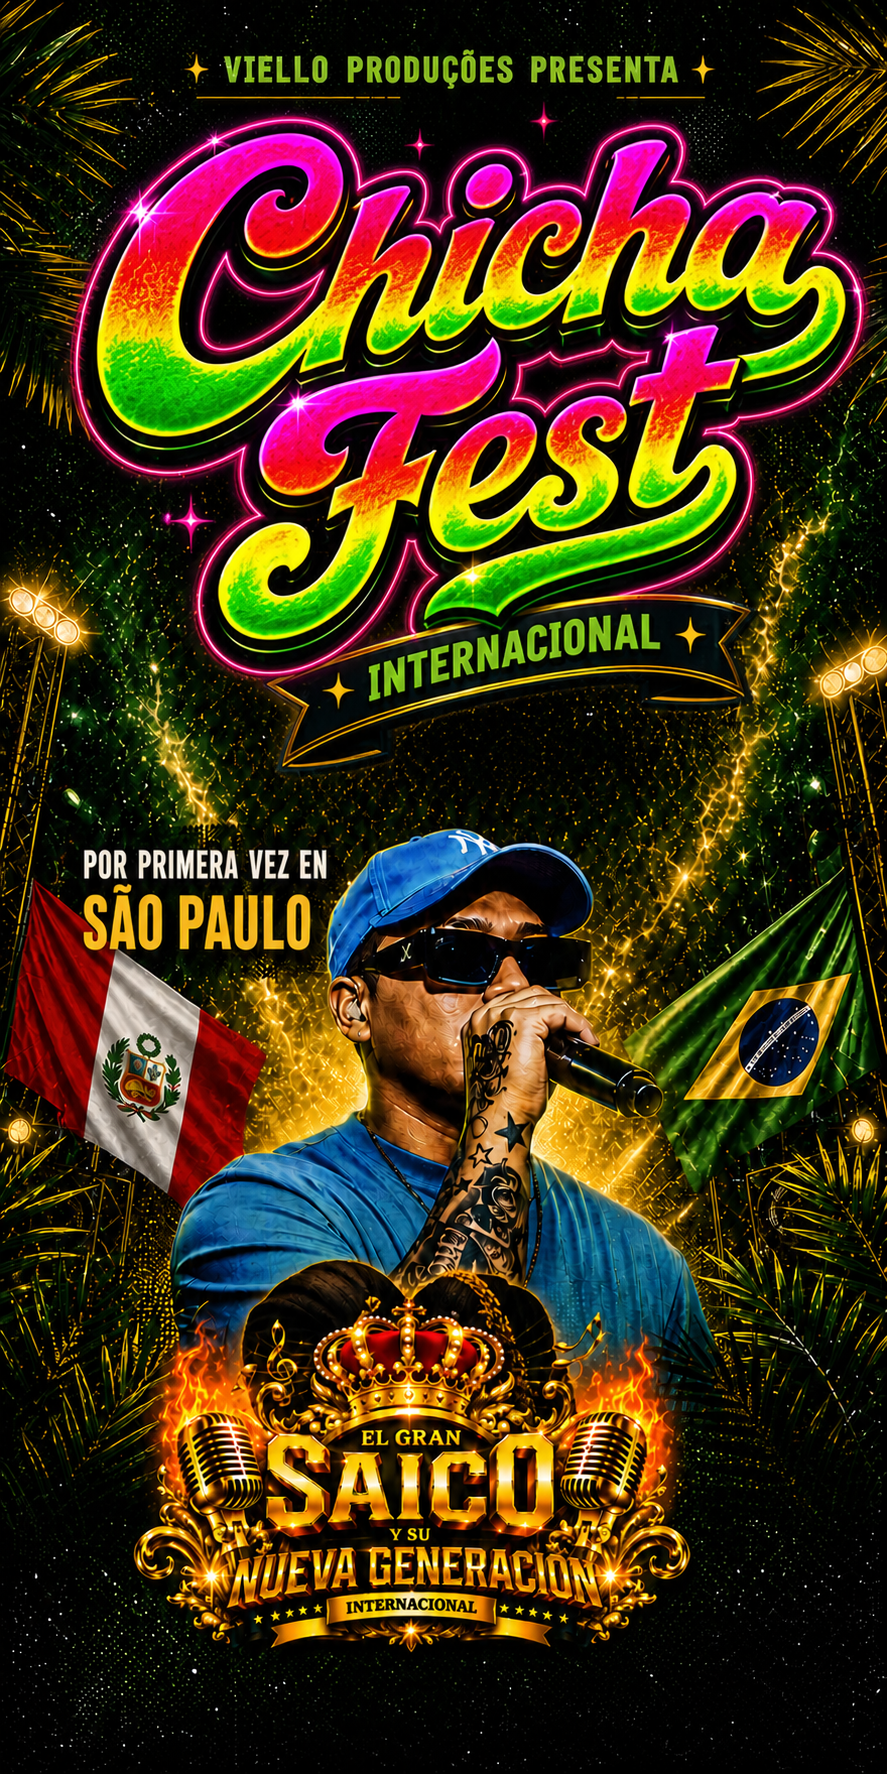
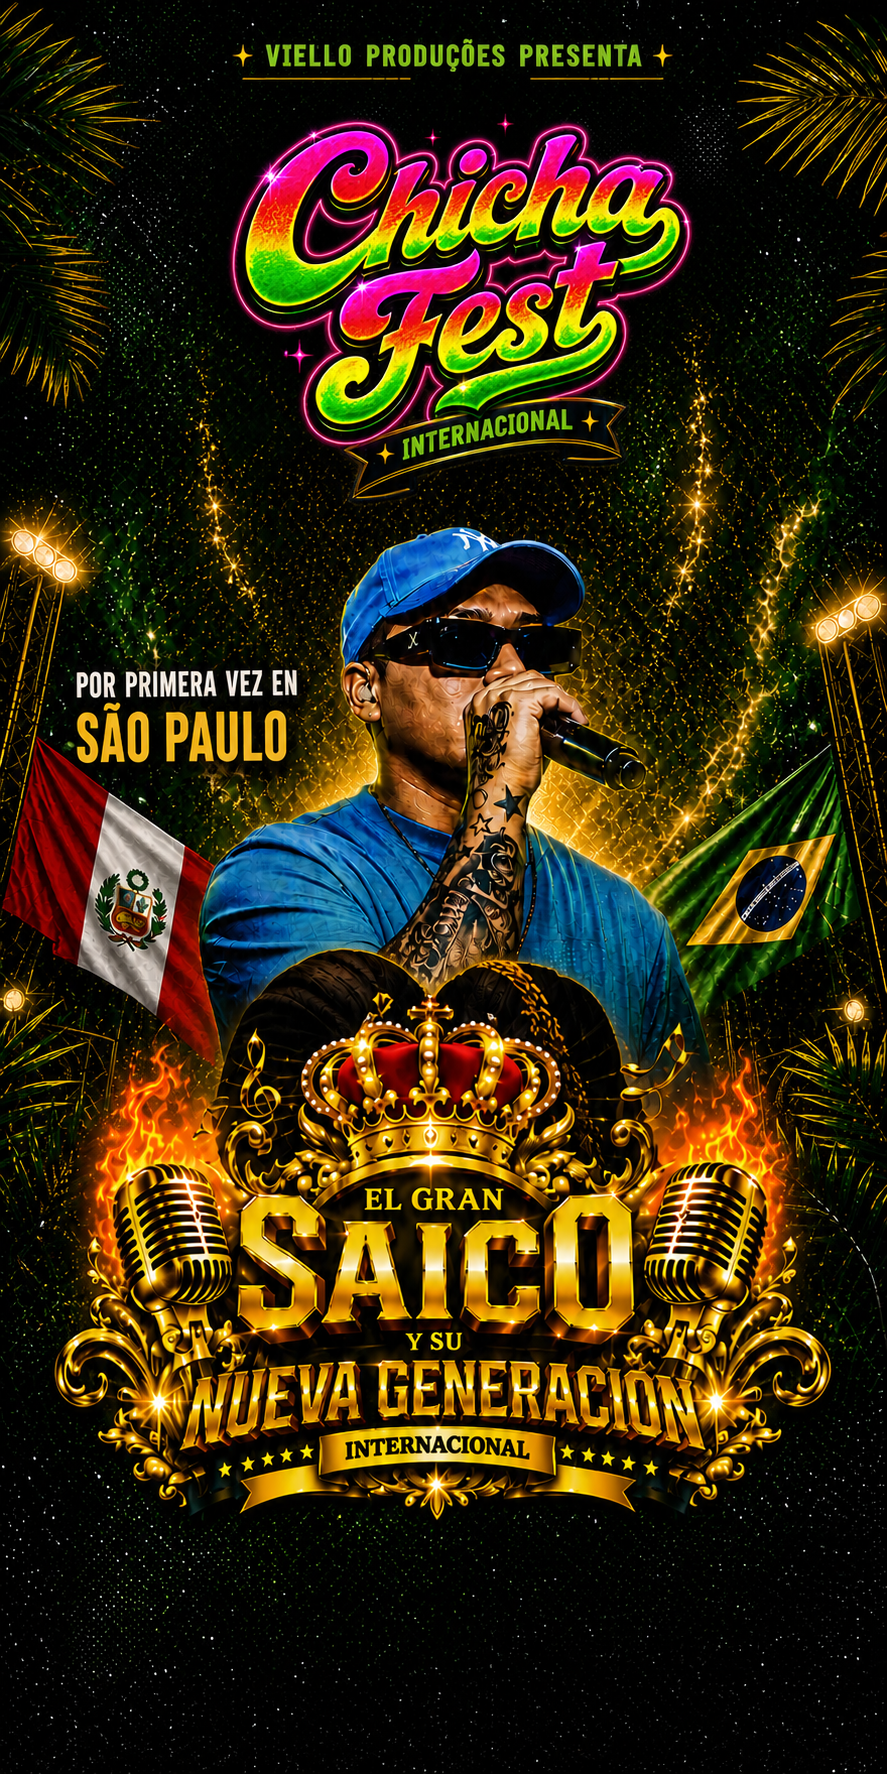
Polish Saico branding and add live videos

diff --git a/src/App.vue b/src/App.vue
@@ -1,17 +1,90 @@
 <script setup>
-import {ref} from 'vue';
-const modal=ref(false), plan=ref('Entrada individual · R$ 100');
-function buy(p){plan.value=p;modal.value=true}
-</script>
-<template>
-<main>
-<section class="poster" id="top"><img src="/chicha-fest-poster.png" alt="Chicha Fest — Saiko en São Paulo, viernes 18 de septiembre" /></section>
-  <section class="intro"><div class="eyebrow">UNA NOCHE EN EL BARRIO</div><p>La primera edición de Chicha Fest llega a São Paulo con Saiko como invitado especial. Reggaetón, cumbia y una pista lista para cantar sin pausa.</p><img class="event-date-banner" src="/event-date-banner.png" alt="Viernes 18 de septiembre, São Paulo, 7 PM" /></section>
-  <section class="music"><div class="eyebrow">SOUNDSYSTEM</div><h2>El gran Saiko<br><em>y su nueva generación.</em></h2><iframe title="Saiko en Spotify" src="https://open.spotify.com/embed/artist/1P7ibSNMQ2VTi5YDBvwBO1?utm_source=generator&theme=0" width="100%" height="352" frameBorder="0" allow="autoplay; clipboard-write; encrypted-media; fullscreen; picture-in-picture" loading="lazy"></iframe></section>
-  <section class="tickets"><div class="price-board"><header><b>SECTORES</b><div class="presale-stack"><b>PREVENTA</b><img src="/logo-remesas-white.svg" alt="Remesas.com" /><small>HASTA 10 SEPT.</small></div><b>PRECIO FULL</b></header><div class="price-row"><div class="zone"><i class="dot yellow"></i><strong>VIP</strong></div><span>R$ <b>190</b><sup>.00</sup></span><em>R$ <b>400</b><sup>.00</sup></em></div><div class="price-row"><div class="zone"><i class="dot white"></i><strong>GENERAL</strong></div><span>R$ <b>150</b><sup>.00</sup></span><em>R$ <b>300</b><sup>.00</sup></em></div><div class="price-row"><div class="zone"><i class="dot green"></i><strong>BOX x5</strong></div><span>R$ <b>900</b><sup>.00</sup></span><em>R$ <b>2,000</b><sup>.00</sup></em></div><div class="price-row"><div class="zone"><i class="dot green"></i><strong>BOX x10</strong></div><span>R$ <b>1,500</b><sup>.00</sup></span><em>R$ <b>3,000</b><sup>.00</sup></em></div><button class="reserve-wide" @click="buy('Preventa Remesas')">COMPRAR ENTRADAS <span>↗</span></button></div><div class="vip-detail"><b>VIP INCLUYE</b><span>Acceso preferencial · mejor ubicación · experiencia exclusiva</span></div></section>
+import { ref } from 'vue'
 
-  <section class="location-section"><div class="eyebrow">NOS VEMOS EN</div><h2>DISCOTECA<br><em>Sabor Latino.</em></h2><address><strong>AV. GUILHERME COTCHING, 481</strong><span>VILA MARIA · SÃO PAULO</span></address><div class="map-frame"><iframe title="Mapa de Discoteca Sabor Latino" src="https://www.google.com/maps?q=Av.%20Guilherme%20Cotching%2C%20481%2C%20Vila%20Maria%2C%20S%C3%A3o%20Paulo&amp;output=embed" width="100%" height="360" style="border:0" loading="lazy" referrerpolicy="no-referrer-when-downgrade" allowfullscreen></iframe></div><a class="map-link" href="https://www.google.com/maps/search/?api=1&amp;query=Av.%20Guilherme%20Cotching%2C%20481%2C%20Vila%20Maria%2C%20S%C3%A3o%20Paulo" target="_blank" rel="noopener">ABRIR EN GOOGLE MAPS <span>↗</span></a></section>
-  <footer class="viello-footer"><img src="/viello-footer.png" alt="Viello Producciones — Eventos que se sienten" /><small>© 2026 VIELLO PRODUCCIONES · SÃO PAULO</small></footer>
-  <button class="buy-dock" @click="buy('Entrada individual · R$ 100')">COMPRAR ENTRADAS <span>↗</span></button><a class="float-wa" href="https://wa.me/5511988662162" target="_blank" aria-label="WhatsApp">◔</a>
-  <div v-if="modal" class="modal-wrap" @click.self="modal=false"><form class="modal" @submit.prevent="modal=false"><button type="button" class="x" @click="modal=false">×</button><div class="eyebrow">RESERVA · CHICHA FEST</div><h2>{{plan}}</h2><label>Nombre<input required placeholder="Tu nombre" /></label><label>WhatsApp<input required placeholder="+55 ..." /></label><label>Correo<input type="email" required placeholder="tu@email.com" /></label><button class="main-cta">CONTINUAR AL PAGO <span>↗</span></button></form></div>
-</main></template>
+const modal = ref(false)
+const plan = ref('Preventa Remesas')
+
+function buy(selectedPlan = 'Preventa Remesas') {
+  plan.value = selectedPlan
+  modal.value = true
+}
+</script>
+
+<template>
+  <main>
+    <section class="poster" id="top">
+      <img src="/chicha-fest-poster.png" alt="Chicha Fest — Saico en São Paulo, viernes 18 de septiembre" />
+    </section>
+
+    <section class="intro">
+      <div class="eyebrow">UNA NOCHE EN EL BARRIO</div>
+      <p>La primera edición de Chicha Fest llega a São Paulo con Saico como invitado especial. Reggaetón, cumbia y una pista lista para cantar sin pausa.</p>
+      <img class="event-date-banner" src="/event-date-banner.png" alt="Viernes 18 de septiembre, São Paulo, 7 PM" />
+    </section>
+
+    <section class="music centered-heading">
+      <div class="eyebrow">DALE PLAY</div>
+      <h2>El gran Saico<br /><em>y su nueva generación.</em></h2>
+      <iframe title="Saico en Spotify" src="https://open.spotify.com/embed/artist/1P7ibSNMQ2VTi5YDBvwBO1?utm_source=generator&theme=0" width="100%" height="352" frameborder="0" allow="autoplay; clipboard-write; encrypted-media; fullscreen; picture-in-picture" loading="lazy"></iframe>
+    </section>
+
+    <section class="tickets">
+      <div class="section-title centered-heading">
+        <div class="eyebrow">PREVENTA REMESAS</div>
+        <h2>No te quedes<br /><em>compra tus entradas.</em></h2>
+      </div>
+
+      <div class="price-board">
+        <header>
+          <b>SECTORES</b>
+          <div class="presale-stack"><b>PREVENTA</b><img src="/logo-remesas-white.svg" alt="Remesas.com" /><small>HASTA 10 SEPT.</small></div>
+          <b>PRECIO FULL</b>
+        </header>
+        <div class="price-row"><div class="zone"><i class="dot yellow"></i><strong>VIP</strong></div><span>R$ <b>190</b><sup>.00</sup></span><em>R$ <b>400</b><sup>.00</sup></em></div>
+        <div class="price-row"><div class="zone"><i class="dot white"></i><strong>GENERAL</strong></div><span>R$ <b>150</b><sup>.00</sup></span><em>R$ <b>300</b><sup>.00</sup></em></div>
+        <div class="price-row"><div class="zone"><i class="dot green"></i><strong>BOX x5</strong></div><span>R$ <b>900</b><sup>.00</sup></span><em>R$ <b>2,000</b><sup>.00</sup></em></div>
+        <div class="price-row"><div class="zone"><i class="dot green"></i><strong>BOX x10</strong></div><span>R$ <b>1,500</b><sup>.00</sup></span><em>R$ <b>3,000</b><sup>.00</sup></em></div>
+        <button class="reserve-wide" @click="buy('Preventa Remesas')">COMPRAR ENTRADAS <span>↗</span></button>
+      </div>
+      <div class="vip-detail"><b>VIP INCLUYE</b><span>Acceso preferencial · mejor ubicación · experiencia exclusiva</span></div>
+    </section>
+
+    <section class="videos-section">
+      <div class="centered-heading">
+        <div class="eyebrow">EN VIVO</div>
+        <h2>Saico<br /><em>sobre el escenario.</em></h2>
+      </div>
+      <div class="video-grid">
+        <article>
+          <div class="video-frame"><iframe title="El Gran Saico y su Nueva Generación — concierto completo" src="https://www.youtube-nocookie.com/embed/Ugp5QzXUxzw" allow="accelerometer; autoplay; clipboard-write; encrypted-media; gyroscope; picture-in-picture; web-share" allowfullscreen loading="lazy"></iframe></div>
+          <span>CONCIERTO COMPLETO</span>
+        </article>
+        <article>
+          <div class="video-frame"><iframe title="El Gran Saico y su Nueva Generación en vivo 4K" src="https://www.youtube-nocookie.com/embed/TkWrk0SnST8" allow="accelerometer; autoplay; clipboard-write; encrypted-media; gyroscope; picture-in-picture; web-share" allowfullscreen loading="lazy"></iframe></div>
+          <span>SAICO EN VIVO · 4K</span>
+        </article>
+      </div>
+    </section>
+
+    <section class="location-section">
+      <div class="centered-heading"><div class="eyebrow">NOS VEMOS EN</div><h2>Fiesta en<br /><em>São Paulo.</em></h2></div>
+      <address><strong>AV. GUILHERME COTCHING, 481</strong><span>VILA MARIA · SÃO PAULO</span></address>
+      <div class="map-frame"><iframe title="Mapa de Discoteca Sabor Latino" src="https://www.google.com/maps?q=Av.%20Guilherme%20Cotching%2C%20481%2C%20Vila%20Maria%2C%20S%C3%A3o%20Paulo&amp;output=embed" width="100%" height="360" style="border: 0" loading="lazy" referrerpolicy="no-referrer-when-downgrade" allowfullscreen></iframe></div>
+      <a class="map-link" href="https://www.google.com/maps/search/?api=1&amp;query=Av.%20Guilherme%20Cotching%2C%20481%2C%20Vila%20Maria%2C%20S%C3%A3o%20Paulo" target="_blank" rel="noopener">ABRIR EN GOOGLE MAPS <span>↗</span></a>
+    </section>
+
+    <footer class="viello-footer"><img src="/viello-footer.png" alt="Viello Producciones — Eventos que se sienten" /><small>© 2026 VIELLO PRODUCCIONES · SÃO PAULO</small></footer>
+
+    <button class="buy-dock" @click="buy()">COMPRAR ENTRADAS <span>↗</span></button>
+    <a class="float-wa" href="https://wa.me/5511988662162" target="_blank" aria-label="WhatsApp">◔</a>
+
+    <div v-if="modal" class="modal-wrap" @click.self="modal = false">
+      <form class="modal" @submit.prevent="modal = false">
+        <button type="button" class="x" @click="modal = false">×</button>
+        <div class="eyebrow">RESERVA · CHICHA FEST</div><h2>{{ plan }}</h2>
+        <label>Nombre<input required placeholder="Tu nombre" /></label><label>WhatsApp<input required placeholder="+55 ..." /></label><label>Correo<input type="email" required placeholder="tu@email.com" /></label>
+        <button class="main-cta">CONTINUAR AL PAGO <span>↗</span></button>
+      </form>
+    </div>
+  </main>
+</template>

diff --git a/src/style.css b/src/style.css
@@ -22,3 +22,21 @@
 
 /* Venue and map live below the event content, outside the generated cover */
 .location-section{padding:62px 22px 36px;border-top:1px solid #3a2630;background:radial-gradient(circle at 15% 10%,#3b1722,transparent 42%),#090607}.location-section h2{margin-bottom:28px}.location-section address{display:flex;flex-direction:column;gap:6px;padding:18px 16px;border:1px solid #72502d;border-left:5px solid var(--yellow);background:#120d0e;font-style:normal}.location-section address strong{font:clamp(22px,6vw,34px)/1 'Bebas Neue';letter-spacing:1px;color:var(--yellow)}.location-section address span{font:12px 'DM Mono';letter-spacing:1.3px;color:#fff}.map-frame{margin-top:18px;border:2px solid var(--yellow);background:#111;overflow:hidden}.map-frame iframe{display:block;filter:saturate(.85) contrast(1.08)}.map-link{display:flex;justify-content:space-between;align-items:center;margin-top:12px;padding:17px 16px;background:var(--yellow);color:#111;text-decoration:none;font-weight:700;font-size:13px}.map-link span{font-size:20px}@media(min-width:700px){.location-section{max-width:920px;margin:auto;padding:78px 32px 48px}.location-section address{padding:24px}.map-frame iframe{height:430px}}
+
+/* Centered editorial titles and live-video showcase */
+.centered-heading{text-align:center}
+.centered-heading>.eyebrow{display:block;text-align:center}
+.music h2,.section-title h2,.videos-section h2,.location-section h2{font-size:clamp(54px,14vw,82px);margin:18px auto 28px}
+.music{padding-left:22px;padding-right:22px}
+.music iframe{display:block}
+.section-title{margin-bottom:38px}
+.tickets .section-title .eyebrow{font-size:13px;letter-spacing:2.5px}
+.videos-section{padding:70px 22px;background:radial-gradient(circle at 90% 5%,#39200b,transparent 38%),#070606;border-top:1px solid #3a2630}
+.video-grid{display:grid;grid-template-columns:1fr;gap:24px;margin-top:34px}
+.video-grid article{background:#110d0e;border:1px solid #6f4c2c;border-bottom:4px solid var(--yellow);padding:8px}
+.video-frame{position:relative;aspect-ratio:16/9;overflow:hidden;background:#000}
+.video-frame iframe{position:absolute;inset:0;width:100%;height:100%;border:0}
+.video-grid article>span{display:block;padding:14px 8px 9px;color:var(--yellow);font:14px 'DM Mono';letter-spacing:1px}
+.location-section .centered-heading{margin-bottom:32px}
+.location-section .centered-heading h2{margin-bottom:0}
+@media(min-width:700px){.music,.videos-section{max-width:920px;margin:auto;padding:78px 32px}.video-grid{grid-template-columns:repeat(2,1fr);gap:24px}.tickets .section-title .eyebrow{font-size:16px}}

diff --git a/app.js b/app.js
@@ -6,7 +6,7 @@ $('#buyForm').addEventListener('submit',e=>{e.preventDefault();const d=new FormD
 $('#copyPix').addEventListener('click',async()=>{await navigator.clipboard?.writeText($('#pixKey').textContent);$('#copyPix').textContent='¡Clave copiada!';setTimeout(()=>$('#copyPix').textContent='Copiar clave',1800)});
 // Media tabs
 $$('.tab').forEach(tab=>tab.addEventListener('click',()=>{$$('.tab').forEach(t=>t.classList.remove('active'));tab.classList.add('active');$$('.embed').forEach(e=>e.classList.add('hidden'));$('#'+tab.dataset.target).classList.remove('hidden')}));
-const data={contacts:[['María Fernanda','+51 987 222 140'],['Diego Torres','+55 11 98871 2040'],['Lucía Paredes','+51 944 830 612'],['Andrés Vega','+55 11 99220 1808']],videos:[['SAIKO - HEY BB','YouTube · 2:57'],['Saiko - Polaris','YouTube · 3:12'],['Saiko x Yandel - CORLEONE','YouTube · 3:52']],promos:[['Early bird individual','S/ 100 · hasta dom 13'],['Pack x3 entradas','S/ 200 · hasta dom 13']]};
+const data={contacts:[['María Fernanda','+51 987 222 140'],['Diego Torres','+55 11 98871 2040'],['Lucía Paredes','+51 944 830 612'],['Andrés Vega','+55 11 99220 1808']],videos:[['SAICO - HEY BB','YouTube · 2:57'],['Saico - Polaris','YouTube · 3:12'],['Saico x Yandel - CORLEONE','YouTube · 3:52']],promos:[['Early bird individual','S/ 100 · hasta dom 13'],['Pack x3 entradas','S/ 200 · hasta dom 13']]};
 function renderAdmin(type='contacts'){const rows=data[type].map((r,i)=>`<div class="admin-row"><div><strong>${r[0]}</strong><small>${r[1]}</small></div><span class="admin-action">Editar</span></div>`).join('');$('#adminPanel').innerHTML=`<div class="admin-content">${rows}<form class="admin-form"><input placeholder="Añadir ${type==='contacts'?'contacto':type==='videos'?'video':'promoción'}" required><button>＋</button></form></div>`;$('#adminPanel form').addEventListener('submit',e=>{e.preventDefault();const v=e.target.querySelector('input').value;data[type].push([v,type==='contacts'?'+51 000 000 000':'Borrador']);renderAdmin(type);if(type==='contacts')$('#contactCount').textContent=data.contacts.length});}
 $$('.admin-tab').forEach(tab=>tab.addEventListener('click',()=>{$$('.admin-tab').forEach(t=>t.classList.remove('active'));tab.classList.add('active');renderAdmin(tab.dataset.admin)}));renderAdmin();
 // Mobile menu

diff --git a/index.html b/index.html
@@ -1,1 +1,1 @@
-<!doctype html><html lang="es"><head><meta charset="UTF-8"/><meta name="viewport" content="width=device-width, initial-scale=1.0"/><meta name="theme-color" content="#090607"/><title>Chicha Fest · Saiko en São Paulo</title></head><body><div id="app"></div><script type="module" src="/src/main.js"></script></body></html>
+<!doctype html><html lang="es"><head><meta charset="UTF-8"/><meta name="viewport" content="width=device-width, initial-scale=1.0"/><meta name="theme-color" content="#090607"/><title>Chicha Fest · Saico en São Paulo</title></head><body><div id="app"></div><script type="module" src="/src/main.js"></script></body></html>
